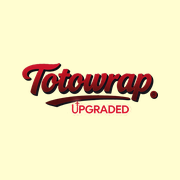
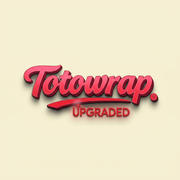
Add files via upload

Changed region(s): [[0.1111, 0.3333, 0.8889, 0.6944]]

diff --git a/style.css b/style.css
@@ -76,8 +76,8 @@ body, input, textarea, select, button, option { text-transform: uppercase; }
   --yellow-rgb: 128, 0, 32;
   --neutral: #8D5A63;
   --neutral-rgb: 141, 90, 99;
-  --red:     #c14d4d;
-  --red-rgb: 193, 77, 77;
+  --red: #ee0038;
+  --red-rgb: 238, 0, 56;
   --green:   #2E7D32;
   --green-rgb: 46, 125, 50;
   --text:    var(--yellow);
